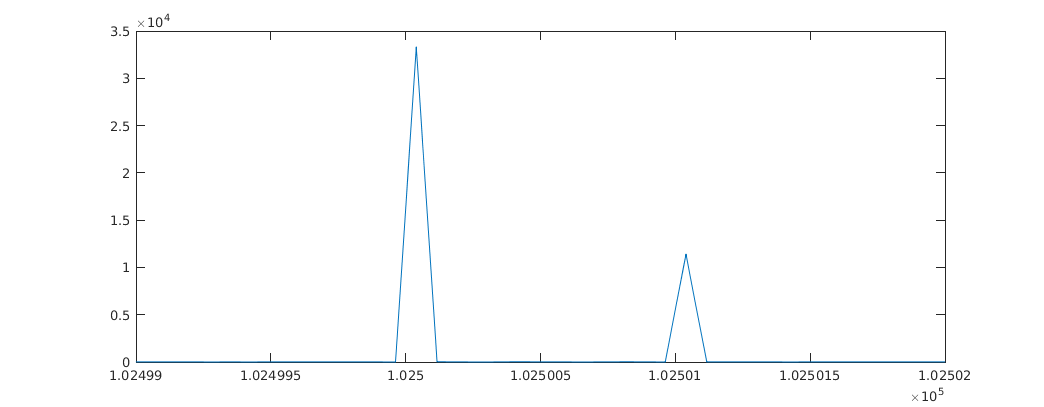
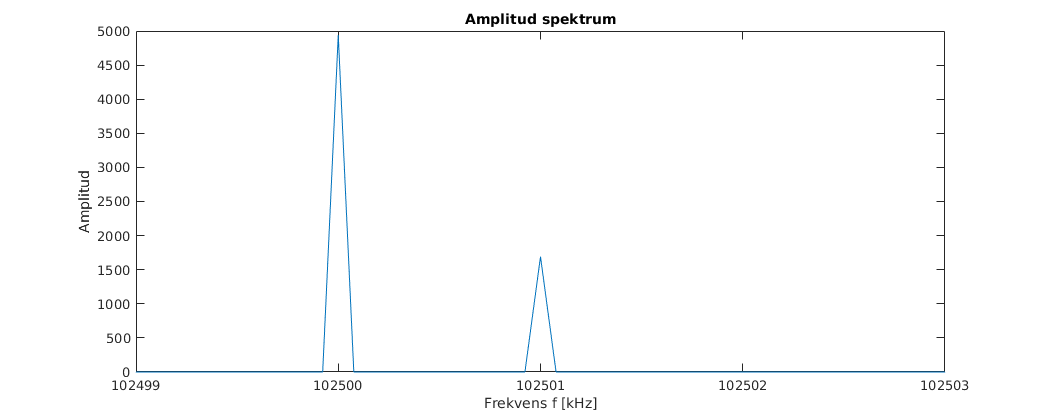
fixade f1 f2 graf

diff --git a/labbkod.m b/labbkod.m
@@ -17,10 +17,11 @@ fft_signal = fft(signal);
 fft_signal = fft_signal(1:signal_l/2);
 
 % Beräkna vektorer som kommer att användas som axlar i grafer
-f_axel = sampel_frek/2*linspace(0, 1, signal_l/2);
+f_axel = (0:signal_l/2-1)*sampel_frek/signal_l;
 t_axel = linspace(0,signal_l/sampel_frek, signal_l);
 
 % Plotta |Y(f)| för att undersöka signalen i frekvsensspektrumet
+% figure;
 % plot(f_axel, abs(fft_signal));
 % title('Amplitud spektrum');
 % xlabel('Frekvens f [kHz]');
@@ -133,16 +134,16 @@ for n = 0: 0.1:pi/2
     disp(n)
     test = 2*pi*fc*t_axel.'+n;
 
-    % I/Q-demodulering
+    %I/Q-demodulering
     X_i = filter(B5, A5, eko_signal.*(2*cos(test.')));
     
     X_q = -filter(B5, A5, eko_signal.*(2*sin(test.')));
     
-    % Downsampla med 10 för att kunna lyssna
+    %Downsampla med 10 för att kunna lyssna
     i = downsample(X_i, 10);
     q = downsample(X_q, 10);
     
-    % Uppspelning
+    %Uppspelning
     soundsc(i, sampel_frek/10);
     %soundsc(q, sampel_frek/10);
     pause;
